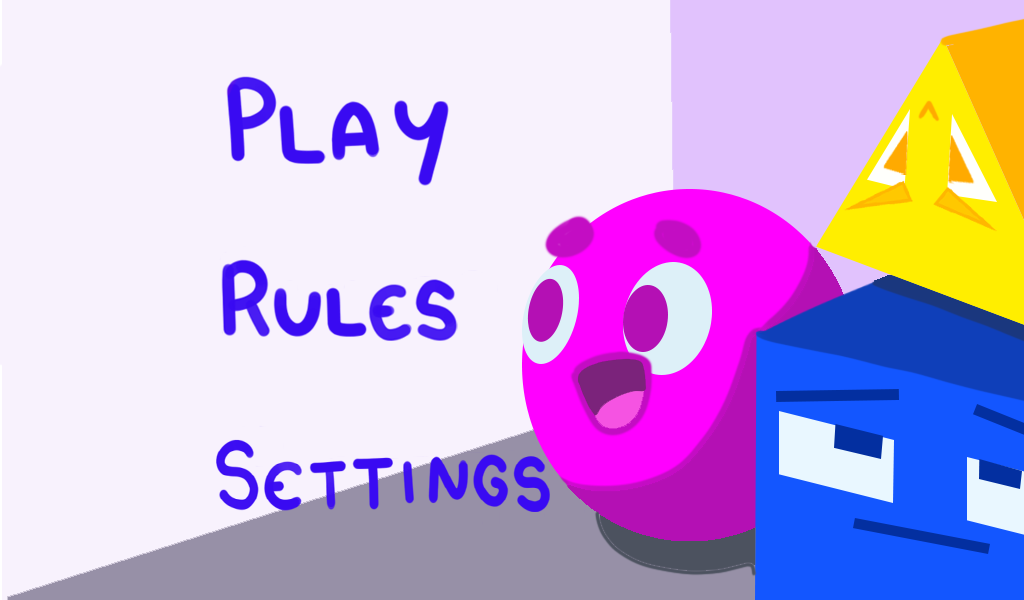
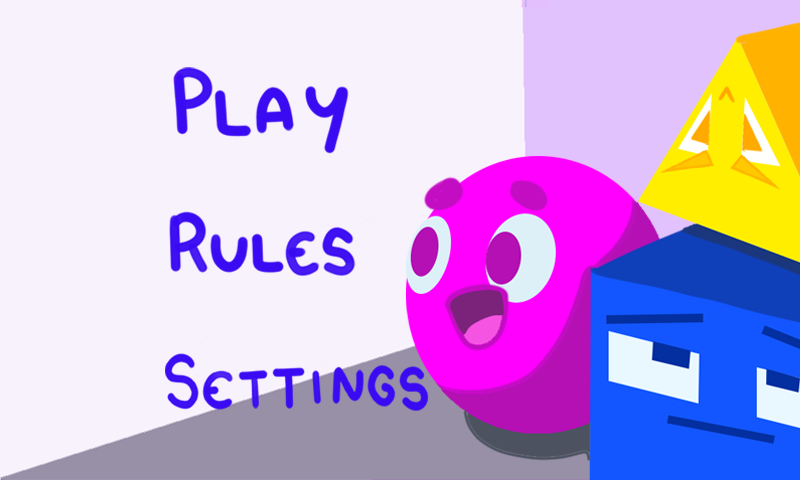
added and changed the css

diff --git a/patternPickerGame.htm b/patternPickerGame.htm
@@ -37,7 +37,7 @@
             </audio>
             <div class="page" id="settingsPg" style="transform: translateX(-100%);">
                 <div id="settingsBtns">
-                    <div style="display: flex; flex-direction: column; gap: 9rem;">
+                    <div style="display: flex; flex-direction: column; gap: 6rem;">
                         <div>Left</div>
                         <div>Mute</div>
                         <div>Go Back</div>
@@ -66,20 +66,22 @@
 
             </div>
             <div class="page" id="rulesPg" style="transform: translateX(-100%);">
-                <div style="margin-top: 10%;">
-                    <p class="ruleWords">• Replicate the pattern that comes on screen</br> before the other player</p>
+                <div style="margin-top: 12%;">
+                    <p class="ruleWords">• Copy the pattern that</br> comes on screen before the other</br> player</p>
                     </br>
-                    <p class="ruleWords">• Get it right and you win a point</p></br>
-                    <p class="ruleWords">• The person with the most points at </br> the end of the time limit wins</p>
+                    <p class="ruleWords">• Get it right and win a point</p></br>
+                    <p class="ruleWords">• Whoever has the most </br>points at the end of the time </br> limit wins</p>
                     </br>
                 </div>
-                <button class="squareBtnTwo" onClick="slide('prev')" class="back squareBtnOnew" id="goBackRules">Go
-                    Back</button>
+                <div style="display: flex; gap: 0.5rem">
+                    <button class="squareBtnTwo" onClick="slide('prev')" class="back squareBtnOnew"
+                        id="goBackRules"></button> <p style="font-size: 35px; font-weight: bolder;">Go Back</p>
+                </div>
 
             </div>
         </div>
         <div class="hidden" id="game">
-            <div class='generatedPattern onScreen square' id="square"></div>
+            <div class='generatedPattern onScreen square ' id="square"></div>
             <div class='generatedPattern onScreen circle' id="circle"></div>
             <div class='generatedPattern onScreen triangle' id="triangle"></div>
             <div id="progressBarId"></div>

diff --git a/css/patternPicker.css b/css/patternPicker.css
@@ -1,6 +1,5 @@
 .progressbar {
   width: 100%;
-  border: solid 1px #000;
 }
 
 .progressbar .inner {
@@ -21,12 +20,12 @@
 @keyframes progressbar-countdown {
   0% {
     width: 100%;
-    background: rgb(3, 255, 3);
+    background: rgb(46, 95, 255);
   }
 
   100% {
     width: 0%;
-    background: #F00;
+    background: rgb(255, 45, 133);
   }
 }
 
@@ -44,6 +43,14 @@
 
 }
 
+#goBackRules{
+  margin-left: 5%;
+  width: 10%;
+  margin-top: -3%;
+  font-size: 25px;
+  font-weight: bold;
+}
+
 .slidecontainer {
   width: 50%;
   /* Width of the outside container */
@@ -58,7 +65,7 @@
   /* Full-width */
   height: 25px;
   /* Specified height */
-  background: #d3d3d3;
+  background: ivory;
   /* Grey background */
   outline: none;
   /* Remove outline */
@@ -79,7 +86,7 @@
 }
 
 button {
-  padding: 100px;
+  padding: 7%;
   border: transparent;
   background-color: transparent;
 }
@@ -103,8 +110,8 @@ button {
 
 .generatedPattern {
   padding: 10px;
-  width: 150px;
-  height: 150px;
+  width: 125px;
+  height: 125px;
   margin: 5%;
 }
 
@@ -163,6 +170,7 @@ button {
   background-size: cover;
 }
 
+
 .onScreen {
   display: none;
 }
@@ -173,7 +181,7 @@ button {
   background-color: rgb(54, 54, 54);
   background-image: url('/images/gameOverPg.png');
   background-size: cover;
-  display: flex;
+  display: none;
   flex-direction: column;
   justify-content: center;
   align-items: center;
@@ -190,7 +198,7 @@ button {
 .gameScreen {
   width: calc(100%/3);
   height: 90vh;
-  background-color: aqua;
+  background-color: ivory;
   border-left: 5px solid rgb(40, 40, 49);
   border-right: 5px solid rgb(40, 40, 49);
   margin: 0px;
@@ -200,9 +208,16 @@ button {
 }
 
 .dispScore {
-  width: 10%;
-  height: 10vh;
+  margin-top: 5%;
+  width: 25%;
+  height: 13%;
+  font-size: 30px;
   display: flex;
+  align-items: center;
+  justify-content: center;
+  margin-right: auto;
+   
+  transform: rotate(90deg);
   border: 2px black solid;
   background-color: pink;
 }
@@ -218,7 +233,7 @@ button {
 .settingPgBtns{
   margin-right: 3%;
   margin-top: 3%;
-  
+  padding: 11vh;
 }
 
 button:active {

diff --git a/js/patternPicker.js b/js/patternPicker.js
@@ -53,7 +53,7 @@ function startGame() {
 
 function gameOver() {
   document.querySelector("#game").style.display = "none";
-  document.querySelector("#gameOverPg").style.display = "block";
+  document.querySelector("#gameOverPg").style.display = "flex";
   currentPage = "gameOver";
   document.getElementById("gameOver").play();
   findWinner();
@@ -296,6 +296,18 @@ function generatePattern(generated, checker) {
   console.log('this is the check array: ' + checker); //correct here
 }
 
+function setGenerateImg(shape){ //TO DO: get Josh
+  if(shape.className !== "oneShape" || shape.className !== "twoShape"){
+    if(shape.className == "circle"){
+      document.getElementById("myImg").src = "/image/circleGenerated";
+    } else if(shape.className == "square"){
+      document.getElementById("myImg").src = "hackanm.gif";
+    }else{
+      document.getElementById("myImg").src = "hackanm.gif";
+    }
+  }
+}
+
 function checkArray(plyFd) {
   var leftRight = localStorage.getItem('display');
   var correct = false;
@@ -371,7 +383,7 @@ function checkArrray(array, clicker, score) {
           setTimeout(function () {
             const removableDiv = document.querySelectorAll('.pattern');
             removableDiv.forEach(pattern => {
-              pattenr.remove();
+              pattern.remove();
             });
             arrOnePatt.splice(0, arrCheck.length);
             arrTwoPatt.splice(0, arrCheck.length);
